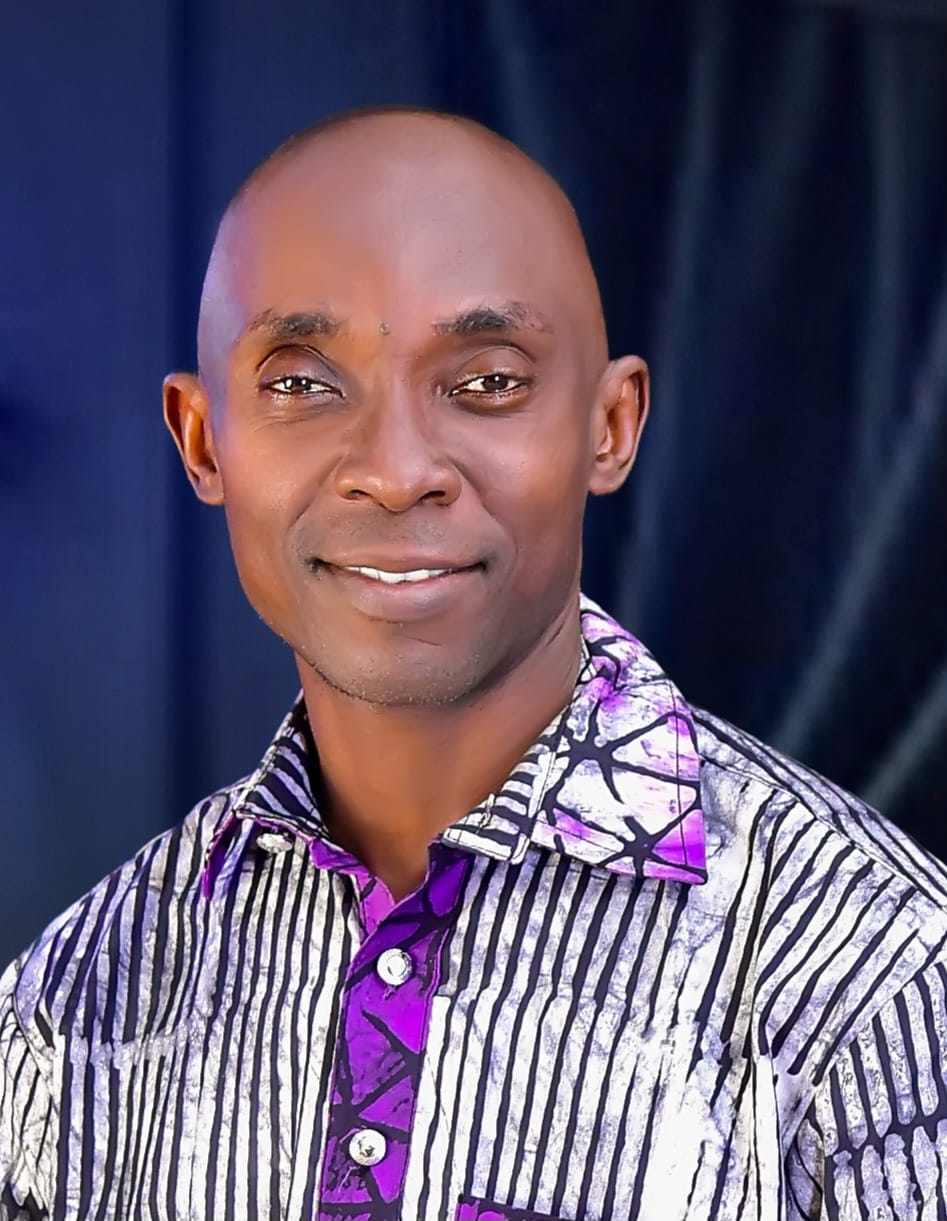
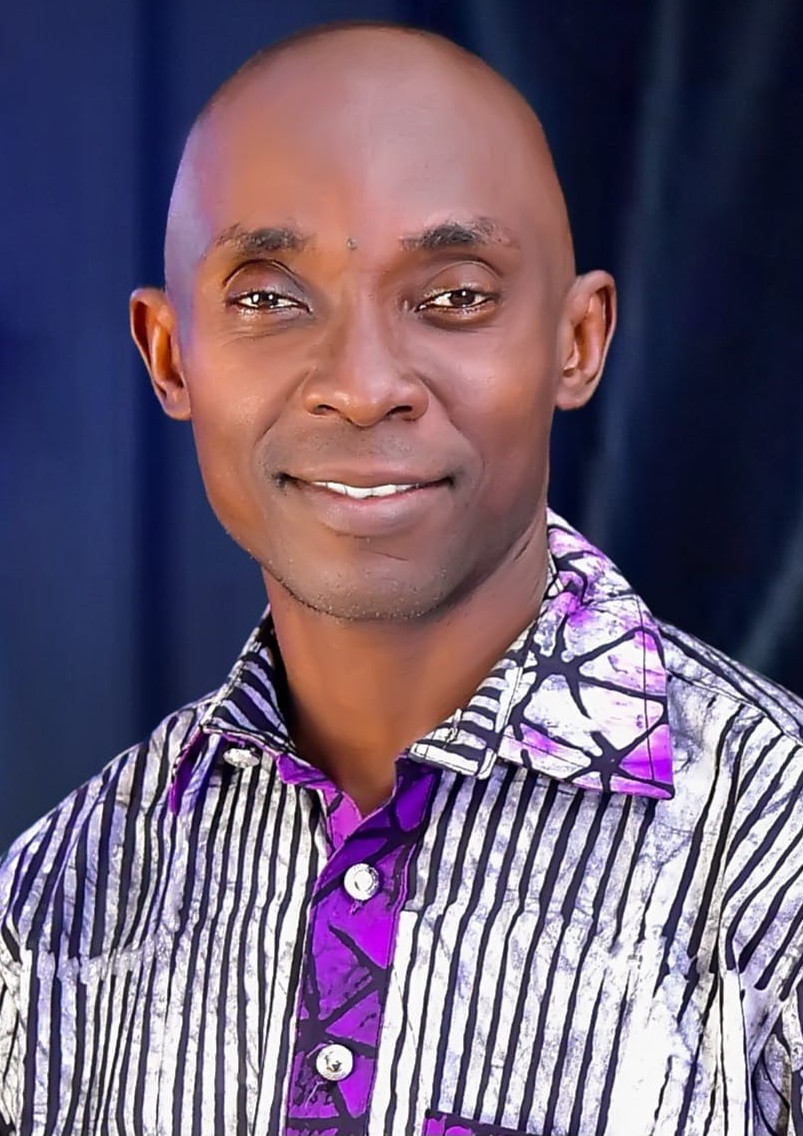
Gallery images uploaded and updated

diff --git a/impact.html b/impact.html
@@ -329,85 +329,82 @@
                 <h3 class="gallery-category-title">Classroom Sessions</h3>
                 <div class="gallery-display-grid">
                     <div class="gallery-item-card">
-                        <img src="/IMAGES/gallery/classroom-1.jpg" alt="Students taking notes during theory introduction">
+                        <img src="/IMAGES/Food-and-Processing-Techniques-session-at-Imade-College-Owo-65af88fc7ef29.jpg" alt="Food and Processing Techniques session at Imade College Owo">
                     </div>
                     <div class="gallery-item-card">
-                        <img src="/IMAGES/gallery/classroom-2.jpg" alt="Instructor demonstrating blueprint designs on blackboard">
+                        <img src="/IMAGES/Training-of-Trainers-65afa050d6501.jpg" alt="Training of Trainers instructional session with educators">
                     </div>
                     <div class="gallery-item-card">
-                        <img src="/IMAGES/gallery/classroom-3.jpg" alt="Interactive review session with textbook materials">
+                        <img src="/IMAGES/GNAT-session-at-Anglican-Grammar-School-Igbara-Oke-6657433e8e5a1.jpg" alt="GNAT session at Anglican Grammar School Igbara Oke">
                     </div>
                     <div class="gallery-item-card">
-                        <img src="/IMAGES/gallery/classroom-4.jpg" alt="Group discussion on safety regulations and compliance">
+                        <img src="/IMAGES/FPT-Session-65e0745639022.jpg" alt="FPT Session with secondary school students taking notes">
                     </div>
                     <div class="gallery-item-card">
-                        <img src="/IMAGES/gallery/classroom-5.jpg" alt="Written assessment preparation and module tracking">
+                        <img src="/IMAGES/Group-picture-with-the-students-6657427c8c7d9.jpg" alt="Group picture with the students inside the classroom setting">
                     </div>
                 </div>
             </div>
 
-            <!-- Category 2: Workshop & Skills -->
             <div class="gallery-category-block">
                 <h3 class="gallery-category-title">Workshop & Skills</h3>
                 <div class="gallery-display-grid">
                     <div class="gallery-item-card">
-                        <img src="/IMAGES/gallery/workshop-1.jpg" alt="Hands-on practice with woodworking tools">
+                        <img src="/IMAGES/Food-Processing-Techniques-Session-65e073508e081.jpg" alt="Food Processing Techniques Session demonstrating vocational preparation">
                     </div>
                     <div class="gallery-item-card">
-                        <img src="/IMAGES/gallery/workshop-2.jpg" alt="Students measuring structural components safely">
+                        <img src="/IMAGES/WET-Session-65e0742948c66.jpg" alt="WET Session practical technical skills workshop asset">
                     </div>
                     <div class="gallery-item-card">
-                        <img src="/IMAGES/gallery/workshop-3.jpg" alt="Food processing module sorting and sanitization assembly">
+                        <img src="/IMAGES/WET-Session-65e074cee5a40.jpg" alt="WET Session engineering and assembly workshop assignment">
                     </div>
                     <div class="gallery-item-card">
-                        <img src="/IMAGES/gallery/workshop-4.jpg" alt="Electrical wiring panel assembly step-by-step">
+                        <img src="/IMAGES/WET-Session-at-Saint-Louis-Girls-Grammar-School-66574116e4ad2.jpg" alt="WET Session at Saint Louis Girls Grammar School">
                     </div>
                     <div class="gallery-item-card">
-                        <img src="/IMAGES/gallery/workshop-5.jpg" alt="Final product finishing touches and storage testing">
+                        <img src="/IMAGES/The-MSTP-Africa-Project-Lead-Lend-A-Hand-India-Anujit-Dutta-Choudhury-while-on-a-visit-to-the-schools-the-Vocational-Instructor-and-the-students-Anglican-Grammar-School-Igbara-Oke-65b3be3faa816.jpg" alt="The MSTP Africa Project Lead Lend A Hand India Anujit Dutta Choudhury while on a visit to the schools the Vocational Instructor and the students Anglican Grammar School Igbara Oke">
                     </div>
                 </div>
             </div>
 
-            <!-- Category 3: Field Trips -->
             <div class="gallery-category-block">
                 <h3 class="gallery-category-title">Field Trips</h3>
                 <div class="gallery-display-grid">
                     <div class="gallery-item-card">
-                        <img src="/IMAGES/gallery/trip-1.jpg" alt="Students arriving at regional industrial fabrication plant">
+                        <img src="/IMAGES/Overview-65dc82ac8ee55.jpg" alt="Overview arrangement layout showing the large delegation trip assembly">
                     </div>
                     <div class="gallery-item-card">
-                        <img src="/IMAGES/gallery/trip-2.jpg" alt="Guided tour through commercial food production facility">
+                        <img src="/IMAGES/Exhibition-Table-at-the-Event-Launch-65dc81cd67f38.jpg" alt="Exhibition Table at the Event Launch showcasing student projects to inspectors">
                     </div>
                     <div class="gallery-item-card">
-                        <img src="/IMAGES/gallery/trip-3.jpg" alt="Observation session at an active power distribution hub">
+                        <img src="/IMAGES/Exhibition-Table-at-the-Event-Launch-65dc81cec7e27.jpg" alt="Exhibition Table at the Event Launch alternate view with reviewers">
                     </div>
                     <div class="gallery-item-card">
-                        <img src="/IMAGES/gallery/trip-4.jpg" alt="Q&A session with production engineers on the factory floor">
+                        <img src="/IMAGES/Ms-Sunanda-Mane-during-her-first-visit-to-Nigeria-on-her-fact-finding-tour-to-the-pilot-schools-65d49ca19715b.jpeg" alt="Ms Sunanda Mane during her first visit to Nigeria on her fact finding tour to the pilot schools">
                     </div>
                     <div class="gallery-item-card">
-                        <img src="/IMAGES/gallery/trip-5.jpg" alt="Group photo documenting day trip learning milestones">
+                        <img src="/IMAGES/Ms-Sunanda-Mane-Co-founder-of-Lend-A-Hand-India-with-the-CEO--COO-of-MSTP-and-the-members-of-the-team-during-her-visit-to-Nigeria-for-the-Launch-on-Tuesday-6th-February-2024-65d49bf69f563.jpg" alt="Ms Sunanda Mane Co founder of Lend A Hand India with the CEO COO of MSTP and the members of the team during her visit to Nigeria for the Launch on Tuesday 6th February 2024">
                     </div>
                 </div>
             </div>
 
-            <!-- Category 5: Community & Partners -->
             <div class="gallery-category-block">
                 <h3 class="gallery-category-title">Community & Partners</h3>
                 <div class="gallery-display-grid">
                     <div class="gallery-item-card">
-                        <img src="/IMAGES/gallery/community-1.jpg" alt="Stakeholder review forum with community leaders">
+                        <img src="/IMAGES/Courtesy-visit-to-Mr-Laolu-Akindolire-the-new-Commissioner-for-Education-Science--Technology-Ondo-state-665741cf29780.jpg" alt="Courtesy visit to Mr Laolu Akindolire the new Commissioner for Education Science Technology Ondo state">
                     </div>
                     <div class="gallery-item-card">
-                        <img src="/IMAGES/gallery/community-2.jpg" alt="Parent-Teacher townhall gathering discussing skills impact">
+                        <img src="/IMAGES/Gift-presentation-to-the-Honorable-Commissioner-6657423da1dcc.jpg" alt="Gift presentation to the Honorable Commissioner">
                     </div>
                     <div class="gallery-item-card">
-                        <img src="/IMAGES/gallery/community-3.jpg" alt="Signing ceremony with regional educational authorities">
+                        <img src="/IMAGES/Presentation-of-gift-made-by-SLA-students-to-the-Commissioner-66574210bfe9a.jpg" alt="Presentation of gift made by SLA students to the Commissioner">
                     </div>
                     <div class="gallery-item-card">
-                        <img src="/IMAGES/gallery/community-4.jpg" alt="Equipment inspection visit by foundation partners">
+                        <img src="/IMAGES/Presentation-at-the-Launch-65dc82171ba7f.jpg" alt="Presentation at the Launch ceremony milestone with key partners">
                     </div>
                     <div class="gallery-item-card">
-                        <img src="/IMAGES/gallery/community-5.jpg" alt="Exhibition layout highlighting project outcomes to donors">
+                        <img src="/IMAGES/Team-picture-at-the-MSTP-launch-event-in-Ondo-state-65dc81856cecf.jpg" alt="Team picture at the MSTP launch event in Ondo state">
                     </div>
                 </div>
             </div>
